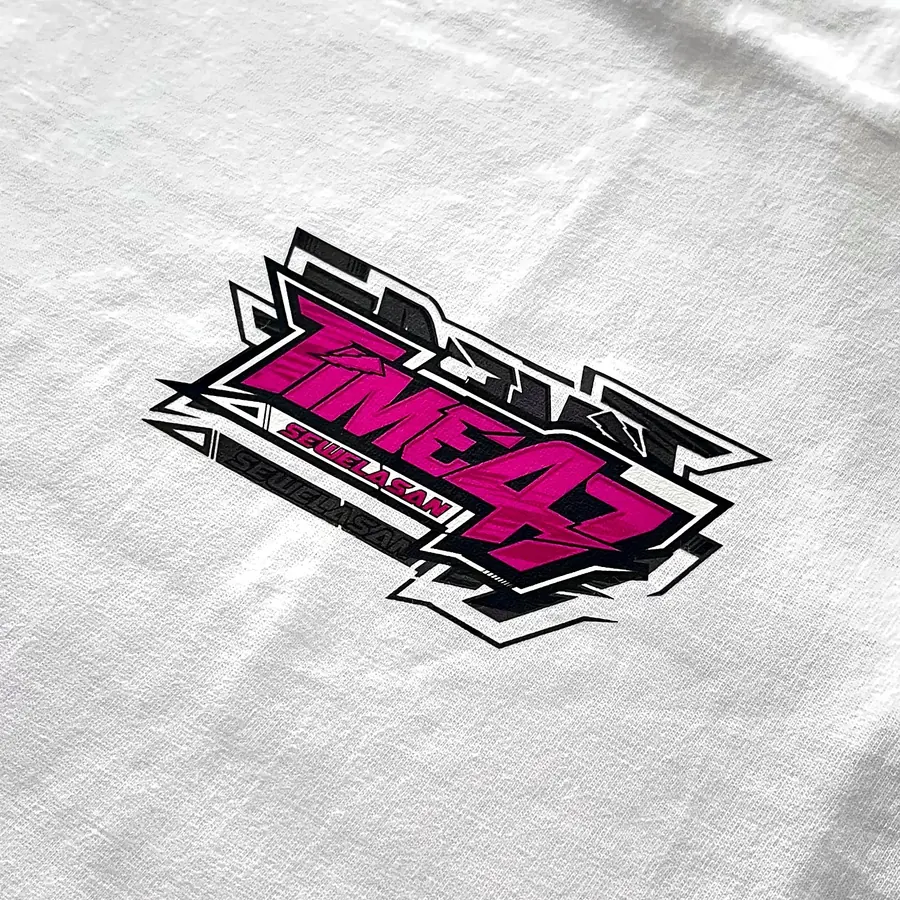
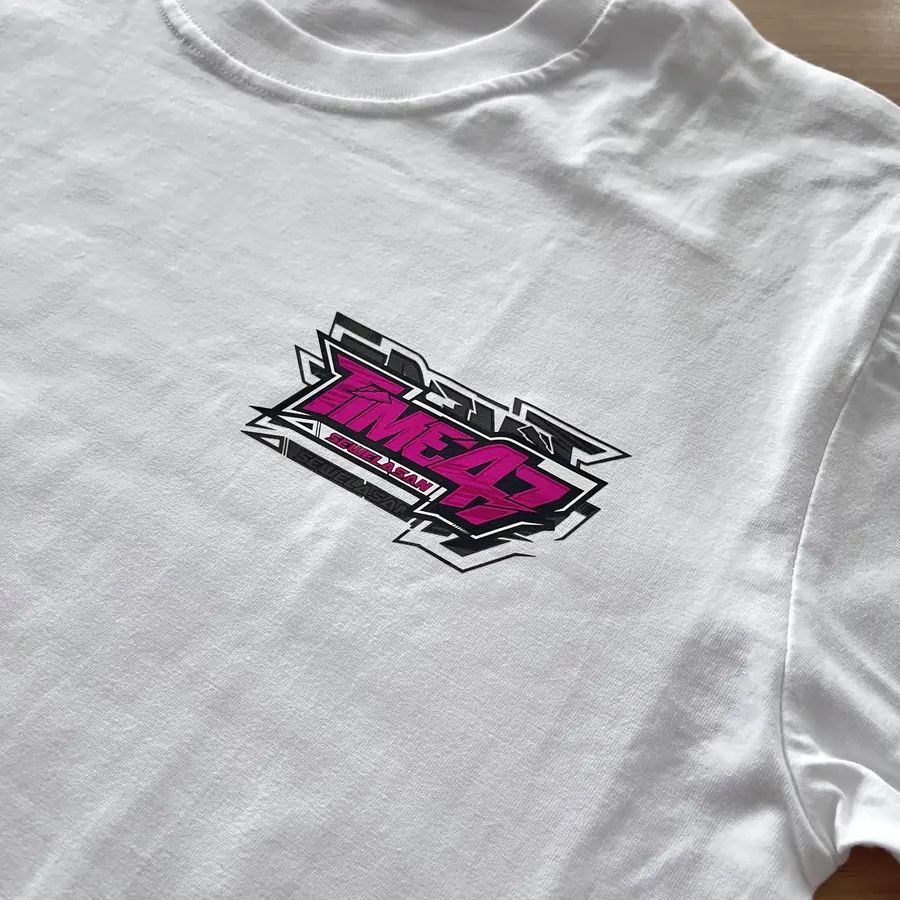
Galeri: tambah foto sablon DTF PGRI Kedunggalar HUT 81 (#431)
* Galeri: 5 foto sablon DTF TIME47 Sewelasan (diedit) di beranda dan /hasil-sablon

Claude-Session: https://claude.ai/code/session_01J2nELHq3A3Pmoagc6FxLva

* Galeri: tambah 2 foto sablon DTF PGRI Kedunggalar HUT 81 (diedit)

Claude-Session: https://claude.ai/code/session_01J2nELHq3A3Pmoagc6FxLva

* Foto TIME47 pakai foto asli tanpa edit (permintaan Huda)

Claude-Session: https://claude.ai/code/session_01J2nELHq3A3Pmoagc6FxLva

---------

diff --git a/public/hasil-sablon.html b/public/hasil-sablon.html
@@ -62,9 +62,17 @@
     <div class="wrap">
             <h1 class="hs-title" style="font-family:var(--display);font-weight:800;font-size:clamp(38px,6vw,64px);line-height:1.02;margin-top:8px">Hasil produksi asli Willo.</h1>
       <p class="hs-lead">Foto dan video di bawah ini direkam di workshop kami di Ngawi dan diunggah di Instagram <a href="https://www.instagram.com/willo.apparel" target="_blank" rel="noopener">@willo.apparel</a>. Lihat hasilnya dulu, lalu ceritakan kebutuhan kaosmu lewat WhatsApp.</p>
-      <!-- FOTO TIME47 SEWELASAN: desain komunitas, sablon DTF. Foto kiriman Huda, diedit (warna, cahaya, latar meja dibersihkan). -->
-      <div class="gallery-head" id="foto-time47"><h2 style="font-family:var(--display);font-weight:800;font-size:30px;line-height:1.1;margin-top:6px">Sablon DTF komunitas, kaos putih dan hitam.</h2></div>
+      <!-- FOTO SABLON DTF (PGRI Kedunggalar, TIME47 Sewelasan). Foto TIME47 = foto asli tanpa edit (permintaan Huda); foto PGRI diedit ringan. -->
+      <div class="gallery-head" id="foto-time47"><h2 style="font-family:var(--display);font-weight:800;font-size:30px;line-height:1.1;margin-top:6px">Sablon DTF untuk komunitas dan instansi.</h2></div>
       <div class="gallery gallery-kotak">
+        <figure class="shot">
+          <picture><source srcset="/foto-hasil/kaos-pgri-kedunggalar-hut-81-dada.webp" type="image/webp" /><img src="/foto-hasil/kaos-pgri-kedunggalar-hut-81-dada.jpg" alt="Kaos coklat PGRI Cabang Kedunggalar HUT 81 dengan sablon DTF full color di dada, hasil produksi Willo Apparel Ngawi" width="900" height="900" loading="lazy" decoding="async" /></picture>
+          <figcaption><b>PGRI Kedunggalar HUT 81</b><span class="mono">Kaos coklat · DTF full color</span></figcaption>
+        </figure>
+        <figure class="shot">
+          <picture><source srcset="/foto-hasil/kaos-pgri-kedunggalar-hut-81-detail.webp" type="image/webp" /><img src="/foto-hasil/kaos-pgri-kedunggalar-hut-81-detail.jpg" alt="Detail sablon DTF logo HUT PGRI ke-81 Solidaritas Guru Berkualitas di kaos coklat, warna merah dan gradasi tetap tajam" width="900" height="900" loading="lazy" decoding="async" /></picture>
+          <figcaption><b>Detail gradasi & huruf kecil</b><span class="mono">Kaos coklat · warna tajam</span></figcaption>
+        </figure>
         <figure class="shot">
           <picture><source srcset="/foto-hasil/kaos-time47-sewelasan-putih-dada.webp" type="image/webp" /><img src="/foto-hasil/kaos-time47-sewelasan-putih-dada.jpg" alt="Kaos putih dengan sablon DTF logo TIME47 Sewelasan warna magenta dan hitam di dada kiri, hasil produksi Willo Apparel Ngawi" width="900" height="900" loading="lazy" decoding="async" /></picture>
           <figcaption><b>Logo dada kiri</b><span class="mono">Kaos putih · DTF full color</span></figcaption>

diff --git a/public/index.html b/public/index.html
@@ -294,9 +294,17 @@
           </div>
         </article>
       </div>
-      <!-- FOTO TIME47 SEWELASAN: desain komunitas, sablon DTF. Foto kiriman Huda, diedit (warna, cahaya, latar meja dibersihkan). -->
-      <div class="gallery-head" id="foto-time47"><h3>Sablon DTF komunitas, kaos putih dan hitam.</h3></div>
+      <!-- FOTO SABLON DTF (PGRI Kedunggalar, TIME47 Sewelasan). Foto TIME47 = foto asli tanpa edit (permintaan Huda); foto PGRI diedit ringan. -->
+      <div class="gallery-head" id="foto-time47"><h3>Sablon DTF untuk komunitas dan instansi.</h3></div>
       <div class="gallery gallery-kotak">
+        <figure class="shot">
+          <picture><source srcset="/foto-hasil/kaos-pgri-kedunggalar-hut-81-dada.webp" type="image/webp" /><img src="/foto-hasil/kaos-pgri-kedunggalar-hut-81-dada.jpg" alt="Kaos coklat PGRI Cabang Kedunggalar HUT 81 dengan sablon DTF full color di dada, hasil produksi Willo Apparel Ngawi" width="900" height="900" loading="lazy" decoding="async" /></picture>
+          <figcaption><b>PGRI Kedunggalar HUT 81</b><span class="mono">Kaos coklat · DTF full color</span></figcaption>
+        </figure>
+        <figure class="shot">
+          <picture><source srcset="/foto-hasil/kaos-pgri-kedunggalar-hut-81-detail.webp" type="image/webp" /><img src="/foto-hasil/kaos-pgri-kedunggalar-hut-81-detail.jpg" alt="Detail sablon DTF logo HUT PGRI ke-81 Solidaritas Guru Berkualitas di kaos coklat, warna merah dan gradasi tetap tajam" width="900" height="900" loading="lazy" decoding="async" /></picture>
+          <figcaption><b>Detail gradasi & huruf kecil</b><span class="mono">Kaos coklat · warna tajam</span></figcaption>
+        </figure>
         <figure class="shot">
           <picture><source srcset="/foto-hasil/kaos-time47-sewelasan-putih-dada.webp" type="image/webp" /><img src="/foto-hasil/kaos-time47-sewelasan-putih-dada.jpg" alt="Kaos putih dengan sablon DTF logo TIME47 Sewelasan warna magenta dan hitam di dada kiri, hasil produksi Willo Apparel Ngawi" width="900" height="900" loading="lazy" decoding="async" /></picture>
           <figcaption><b>Logo dada kiri</b><span class="mono">Kaos putih · DTF full color</span></figcaption>
